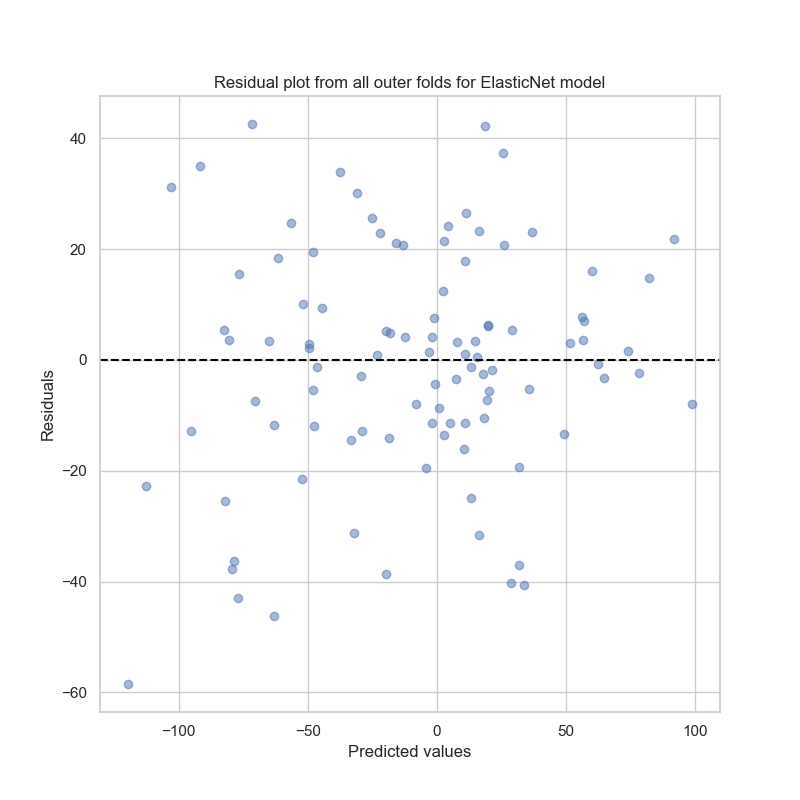
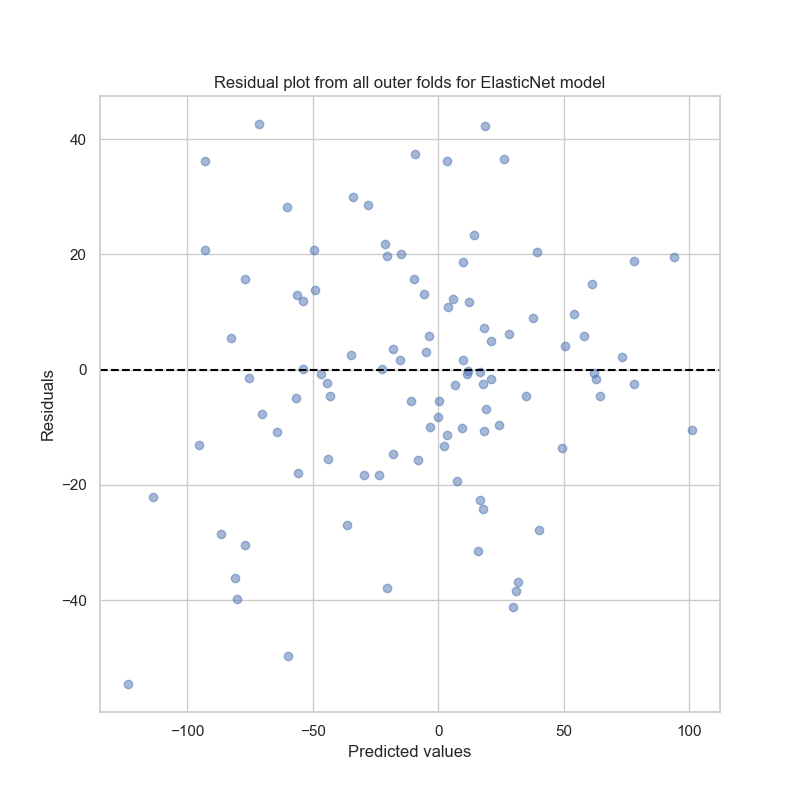
small fix

diff --git a/src/preprocess.py b/src/preprocess.py
@@ -35,8 +35,8 @@ def preprocess(data: pd.DataFrame):
 
     # Define preprocessing for numerical features: imputation + standardization
     numerical_transformer = Pipeline(steps=[
-        ('imputer', KNNImputer(n_neighbors=5)),
-        ('scaler', StandardScaler())])
+        ('scaler', StandardScaler()),
+        ('imputer', KNNImputer(n_neighbors=5))])
 
     # Define preprocessing for categorical features: imputation + one-hot encoding
     categorical_transformer = Pipeline(steps=[
